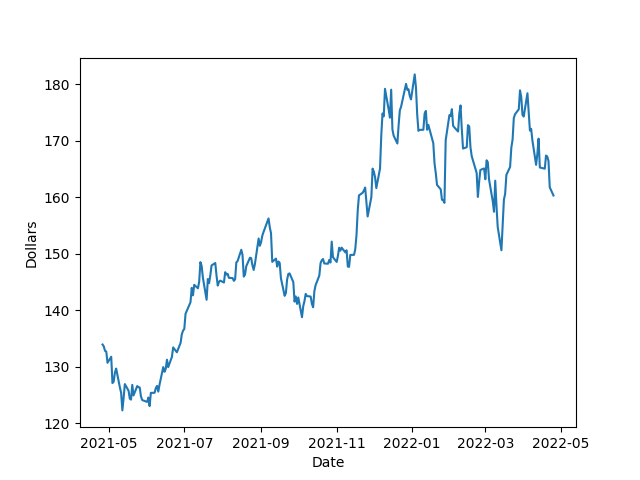
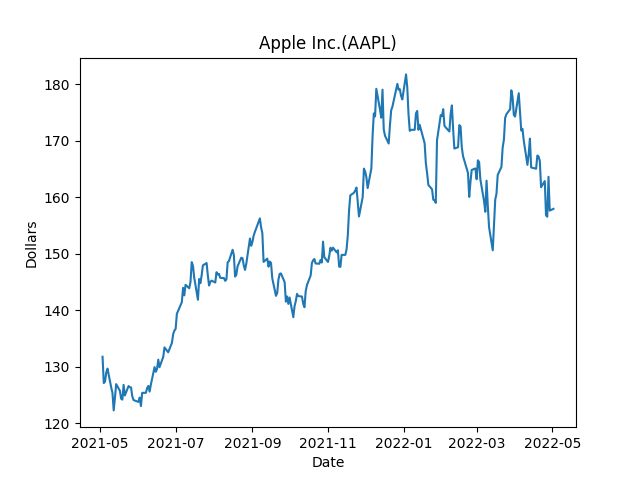
New stocks

Changed region(s): [[0.1562, 0.1562, 0.875, 0.8438], [0.0938, 0.9062, 0.9375, 0.9375], [0.4062, 0.0625, 0.625, 0.125]]

diff --git a/FrontEnd/BAWS/template/helpDesk.html b/FrontEnd/BAWS/template/helpDesk.html
@@ -1,0 +1,31 @@
+<!DOCTYPE html>
+<html>
+    <head>
+        <meta charset="UTF-8">
+        <title>Back to Wall Street</title>
+        <link rel="stylesheet" href="{{ url_for('static', filename='../static/index.css') }}" />
+        <link rel="stylesheet" href="{{ url_for('static', filename='../static/helpDesk.css') }}" />
+    </head>
+    <!-- Holds Navigation Bar-->
+    <header>
+        <nav>
+            
+            <button class="navButt"><a href="{{ url_for('views.index') }}">Home</a></button>
+            <button class="navButt" ><a href="{{ url_for('views.recommend') }}">Recommendation</a></button>
+
+            <button class="navTit">Back Against Wall Street</button>
+        
+            <button class="navButt">
+                <a href="{{ url_for('views.addStock') }}">AddStock</a>
+            </button>
+            <button class="navButt">Help Desk</button>
+
+        </nav>
+    </header>
+    <body>
+       <h1 class="helpTitle">HELP DESK</h1>
+       <h1 class="helpPhone">Phone Number: 529-867-5309</h1>
+       <h1 class="helpEmail">Email: BAWS@gmail.com</h1>
+    </body>
+
+</html>

diff --git a/FrontEnd/BAWS/static/index.css b/FrontEnd/BAWS/static/index.css
@@ -1,10 +1,11 @@
-body, html{
+body,
+html {
     margin: 0;
     padding: 0;
     background-color: #444444;
 }
 
-header{
+header {
     width: 100%;
     height: 120px;
     background-color: #282828;
@@ -12,10 +13,10 @@ header{
 
 h1 {
     position: absolute;
-    float:left;
+    float: left;
 }
 
-span{
+span {
     background-color: #444444;
 }
 
@@ -30,7 +31,7 @@ li {
     padding: 15px 30px;
 }
 
-a { 
+a {
     text-align: center;
     color: #ffffff;
     text-decoration: none;
@@ -74,7 +75,7 @@ a:hover {
     background-color: #555555;
     width: 90%;
     height: 75%;
-    position: fixed; 
+    position: fixed;
     top: 20%;
     left: 5%;
 }
@@ -86,7 +87,7 @@ a:hover {
 }
 
 #checkHolder {
-    position: fixed; 
+    position: fixed;
     top: 40%;
     left: 10%;
 }
@@ -112,7 +113,9 @@ table {
     border-collapse: collapse;
 }
 
-table, th, td {
+table,
+th,
+td {
     text-align: center;
     border: 1px solid;
-  }
+}

diff --git a/FrontEnd/BAWS/static/helpDesk.css b/FrontEnd/BAWS/static/helpDesk.css
@@ -1,0 +1,30 @@
+.helpTitle {
+    text-decoration: underline;
+    color: #ffffff;
+    text-align: center;
+    font-size: 30px;
+    width: 100%;
+    height: 100px;
+    float: center;
+    top: 20%;
+}
+
+.helpPhone {
+    color: #ffffff;
+    text-align: center;
+    font-size: 40px;
+    float: center;
+    width: 100%;
+    height: 100px;
+    top: 40%;
+}
+
+.helpEmail {
+    color: #ffffff;
+    text-align: center;
+    font-size: 40px;
+    float: center;
+    width: 100%;
+    height: 100px;
+    top: 55%;
+}

diff --git a/FrontEnd/BAWS/template/index.html b/FrontEnd/BAWS/template/index.html
@@ -17,7 +17,7 @@
             <button class="navButt">
                 <a href="{{ url_for('views.addStock') }}">AddStock</a>
             </button>
-            <button class="navButt">Help Desk</button>
+            <button class="navButt"><a href="{{ url_for('views.helpDesk') }}">Help Desk</a></button>
 
         </nav>
     </header>

diff --git a/FrontEnd/BAWS/__init__.py b/FrontEnd/BAWS/__init__.py
@@ -50,7 +50,7 @@ def home():
     df = tickers.download(group_by='ticker')
     
     for x in tickers_list:
-        shortchang = ((df[x]['Close'][20]) - (df[x]['Close'][19])) # Contains Change of Stock from Previous Day
+        shortchang = ((df[x]['Close'][19]) - (df[x]['Close'][18])) # Contains Change of Stock from Previous Day
         # Puts Variables into List
         shortTermTrend.append(
             {
@@ -67,7 +67,7 @@ def home():
     shortTermTrend = shortTermTrend.reset_index(drop=True)
     
     for x in tickers_list:
-        longchang = ((df[x]['Close'][20]) - (df[x]['Close'][0])) # Contains Change of Stock from Previous Month
+        longchang = ((df[x]['Close'][19]) - (df[x]['Close'][0])) # Contains Change of Stock from Previous Month
         # Puts Variables into List
         longTermTrend.append(
             {
@@ -185,24 +185,25 @@ def stock_search():
         watch_list.append(text)
         
         getStockInfo.generate_graph(text)
-        #time.sleep(7) # ensure the image is generated
         
         #print to see what the user has typed
         print("The text is: ", text, file =sys.stderr)
         
-        #searches yahoo finance for tickers from the ticker_list
-        tickers = yf.Tickers(tickers_list)
+        if text in tickers_list:
+            #searches yahoo finance for tickers from the ticker_list 
+            tickers = yf.Tickers(tickers_list)
+             #downloads everything to do with tickers into the code so that we can use it
+            df = tickers.download(group_by='ticker')
+            #prints the info for the stock that the user typed in (SUPPOSED TO!!)
+            print(df[text.upper()], file =sys.stderr)
+        else:
+            tickers = yf.Ticker(text).history(period = '1y')
         #prints the list of tickers from tickers
         print(tickers, file =sys.stderr)
         #adds whatever the user typed into the ticker_list
         tickers_list.append(text)
         #prints the list with the added ticker
         print(tickers_list, file =sys.stderr)
-        
-        #downloads everything to do with tickers into the code so that we can use it
-        df = tickers.download(group_by='ticker')
-        #prints the info for the stock that the user typed in (SUPPOSED TO!!)
-        print(df[text.upper()], file =sys.stderr)
         #df.plot.line()
         return render_template("addStock.html", tick = watch_list, text = text)
     return render_template("addStock.html", tick = watch_list)

diff --git a/FrontEnd/BAWS/getStockInfo.py b/FrontEnd/BAWS/getStockInfo.py
@@ -63,6 +63,21 @@ def generate_graph(tick: str):
         plt.plot(sub.index, sub['Close'])
         plt.ylabel('Dollars')
         plt.xlabel('Date')
-        plt.title = f'{tick} time X value' # names the image
+        try:
+            plt.title(yf.Ticker(tick).info['longName'] + "(" + tick +")")
+        except:
+            print("no value in chosen_stock")
+        # TODO:decide where it will save
+        plt.savefig(f"FrontEnd/BAWS/static/{tick}.png"); # saves the figure
+    else:
+        sub = yf.Ticker(tick).history(period = '1y') # grabs the sub item
+        plt.clf()
+        plt.plot(sub.index, sub['Close'])
+        plt.ylabel('Dollars')
+        plt.xlabel('Date')
+        try:
+            plt.title(yf.Ticker(tick).info['longName'] + "(" + tick +")")
+        except:
+            print("no value in chosen_stock")
         # TODO:decide where it will save
         plt.savefig(f"FrontEnd/BAWS/static/{tick}.png"); # saves the figure

diff --git a/FrontEnd/BAWS/views.py b/FrontEnd/BAWS/views.py
@@ -18,6 +18,10 @@ def index():
 def addStock():
     return render_template("addStock.html")
 
+@views.route('/helpDesk')
+def helpDesk():
+    return render_template("helpDesk.html")
+
 @views.route('/recommend')
 def recommend():
     return render_template("recommend_page.html")

diff --git a/FrontEnd/app.py b/FrontEnd/app.py
@@ -1,6 +1,5 @@
 from BAWS import create_app
 
 app = create_app()
-print("Generic")
 if __name__ == '__main__':
     app.run(debug=True)
